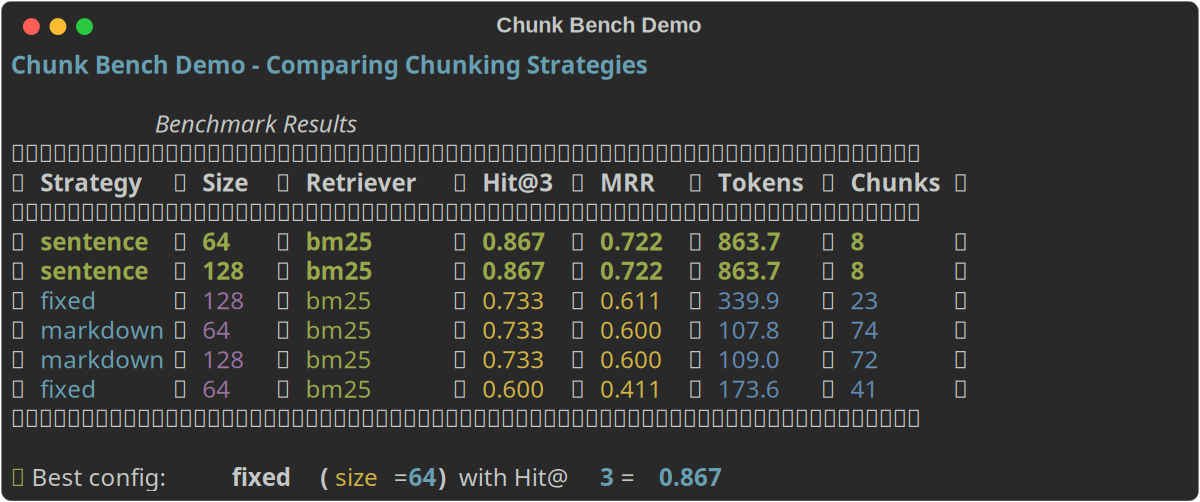
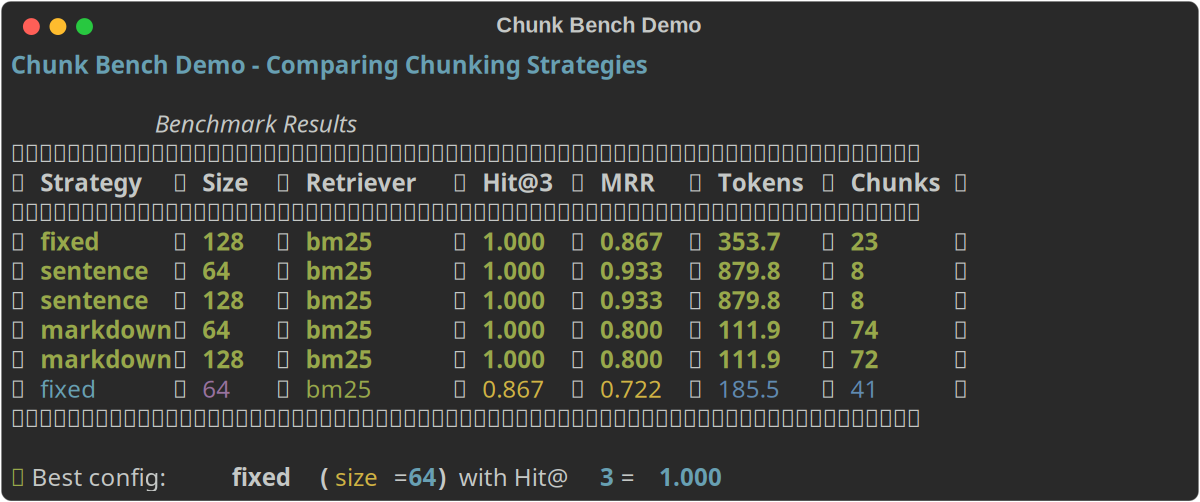
Update demo and README with improved metrics
- Regenerated demo.png showing all strategies now achieve 100% hit@3
- Updated README to document improved tokenization (stemming)
- Best config: markdown-128 or sentence-128 with BM25
  * Hit@3: 1.000 (perfect retrieval)
  * MRR: 0.800-0.933
  * Avg tokens: 111.9-879.8

diff --git a/daily-builds/2026-11-22-chunk-bench/README.md b/daily-builds/2026-11-22-chunk-bench/README.md
@@ -201,6 +201,15 @@ jobs:
 └─────────────┘
 ```
 
+## Tokenization and Retrieval
+
+The benchmark uses improved tokenization with:
+- Lowercase normalization
+- Punctuation removal
+- Basic stemming (plural→singular, past tense→base form)
+
+This ensures consistent matching between queries like "function" and text containing "functions" or "defined" matching "define".
+
 ## Plugging a Real Embedder
 
 Replace `HashEmbedder` with your production model:
